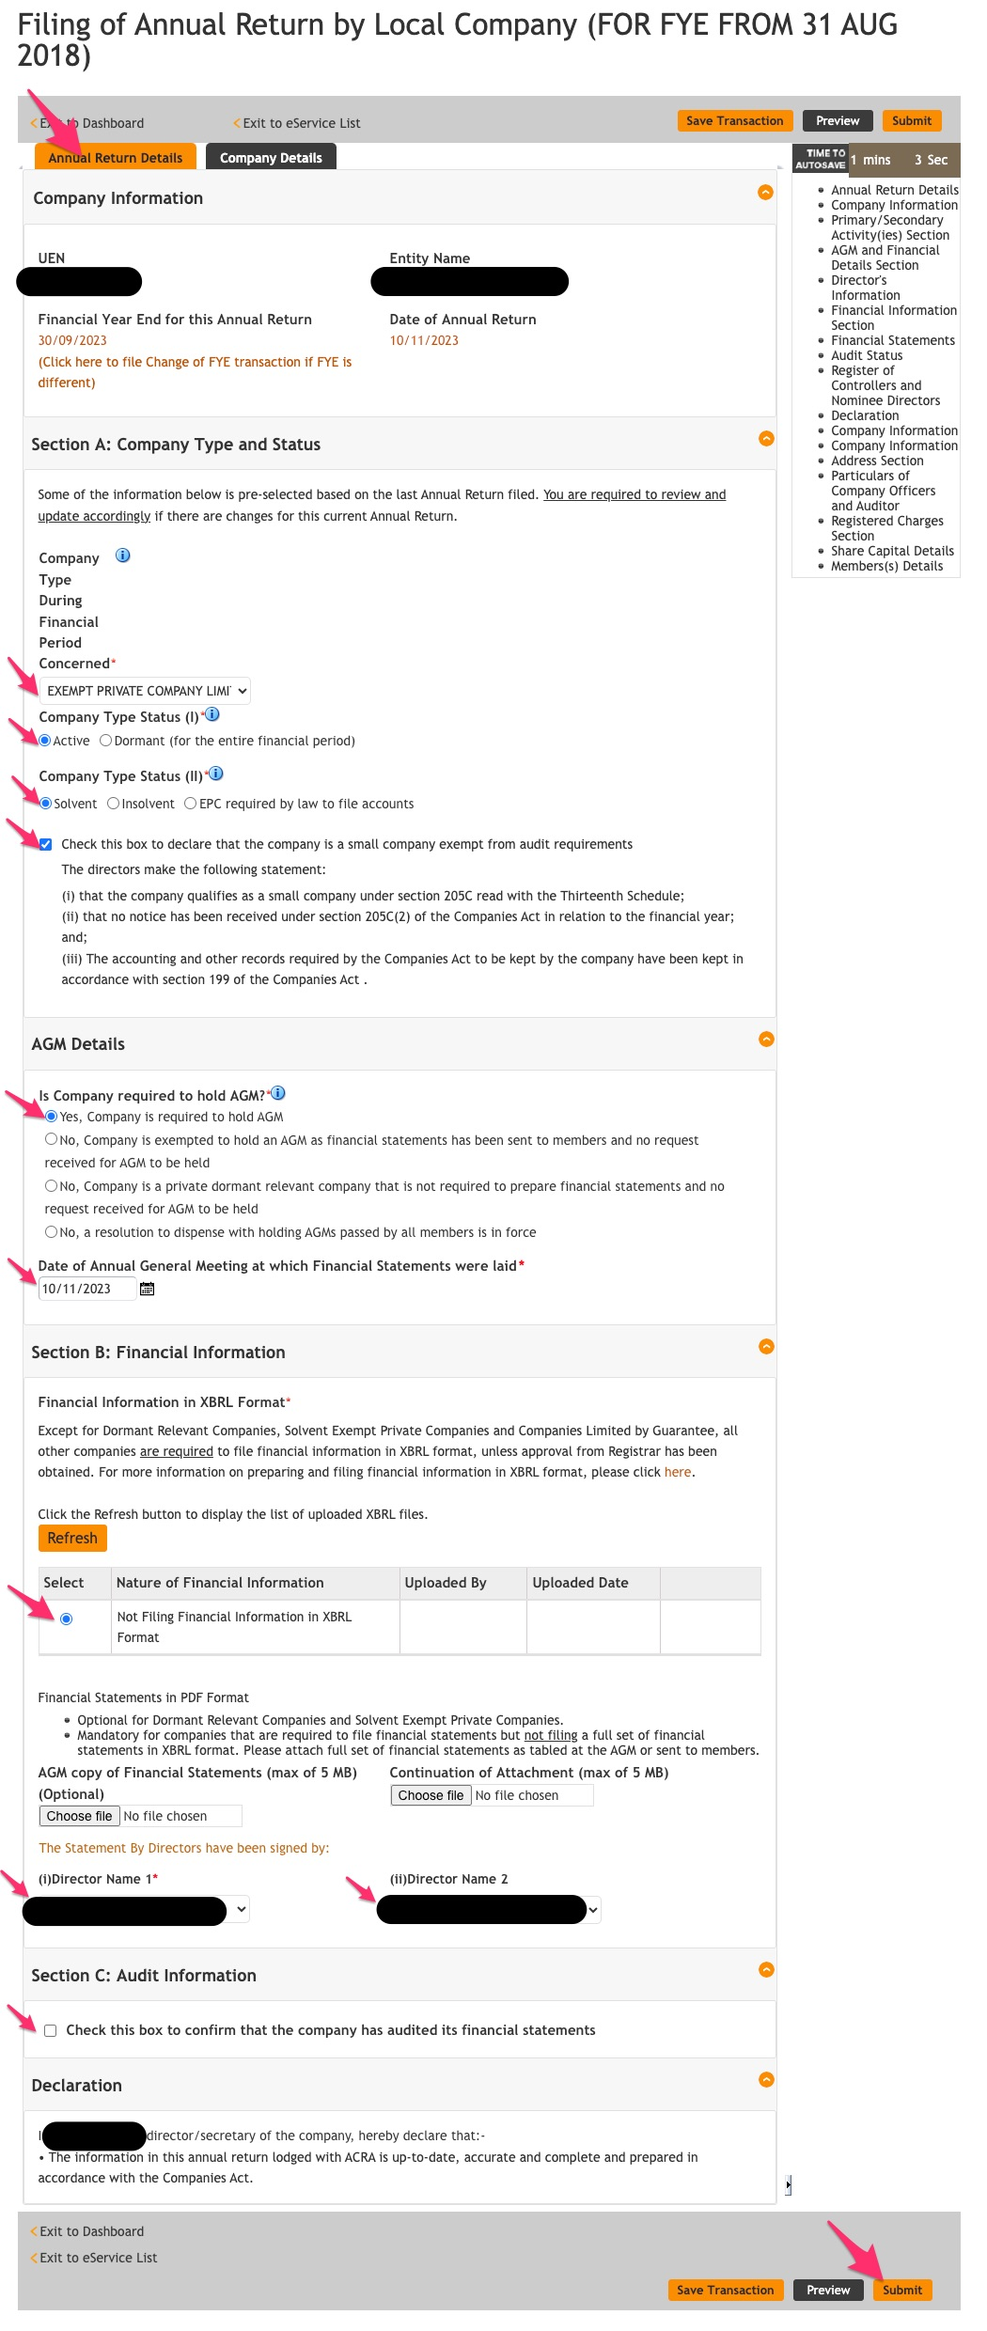
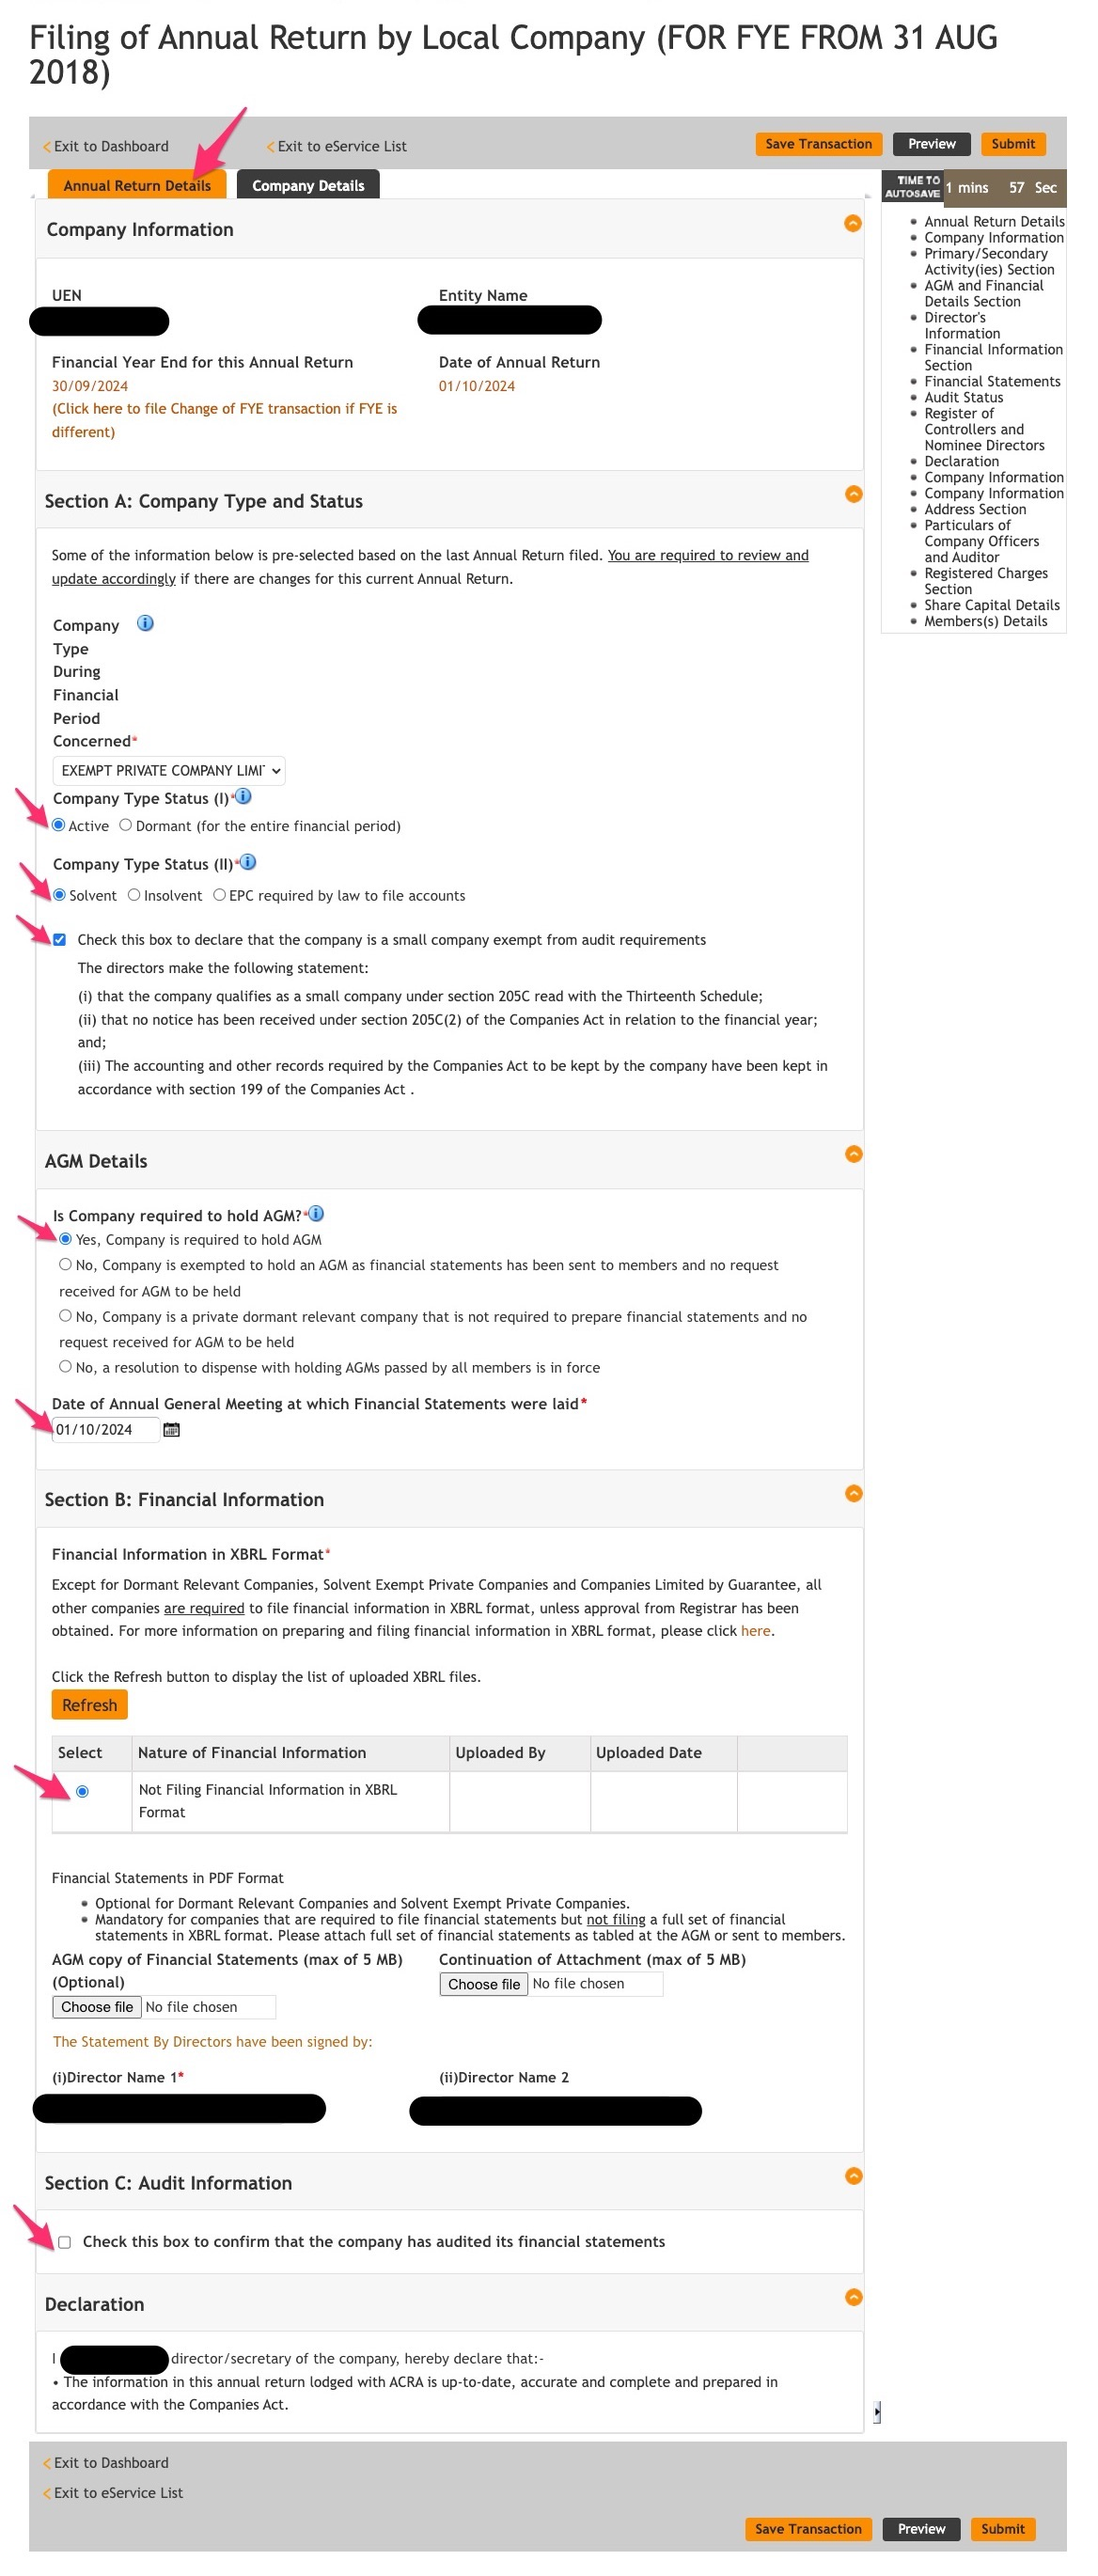
docs: update images for filing ACRA bizfile and IRAS Form C-S lite for Y2023

diff --git a/internal.md b/internal.md
@@ -1,12 +1,10 @@
 # Internal
 
-> 31 Jan: Calculate Revenue, Expense and Gross profit / loss for the previous year
+### Monthly
 
-1. Get expenses from various sources:
-    - PayPal
-    - Amazon
-    - RS Components / Mouser / AliExpress / Name.com
-    - Cross check with Gmail and bank transactions
-1. Copy a **Income & Expense** spreadsheet from previous year in Google Drive
-1. Delete sheets **Income** and **Expense**
-1. Calculate **Gross Profit/Loss** in the **Overall** sheet by linking the cells for **Revenue** and **Expense**
+Track income and expenses in Google Sheets
+
+### 31 January next year
+
+- Calculate Revenue, Expense and Gross profit / loss for the previous year
+- Duplicate a **Income & Expense** spreadsheet for the current year

diff --git a/acra.md b/acra.md
@@ -2,7 +2,8 @@
 
 > 15 Nov: File AGM / Annual Filling with ACRA
 
-1. Go to [Bizfile](http://www.bizfile.gov.sg/)
+1. Go to [Bizfile](http://www.bizfile.gov.sg/) and login with Singpass
+1. Open the Google Sheets "Income & Expense" for the previous year
 1. Click menu `eServices` > `Local Company` > `Annual Filing > Annual Return by Local Company (For FYE from 31 Aug 2018)`
 
     ![](img/acra-menu.jpg)
